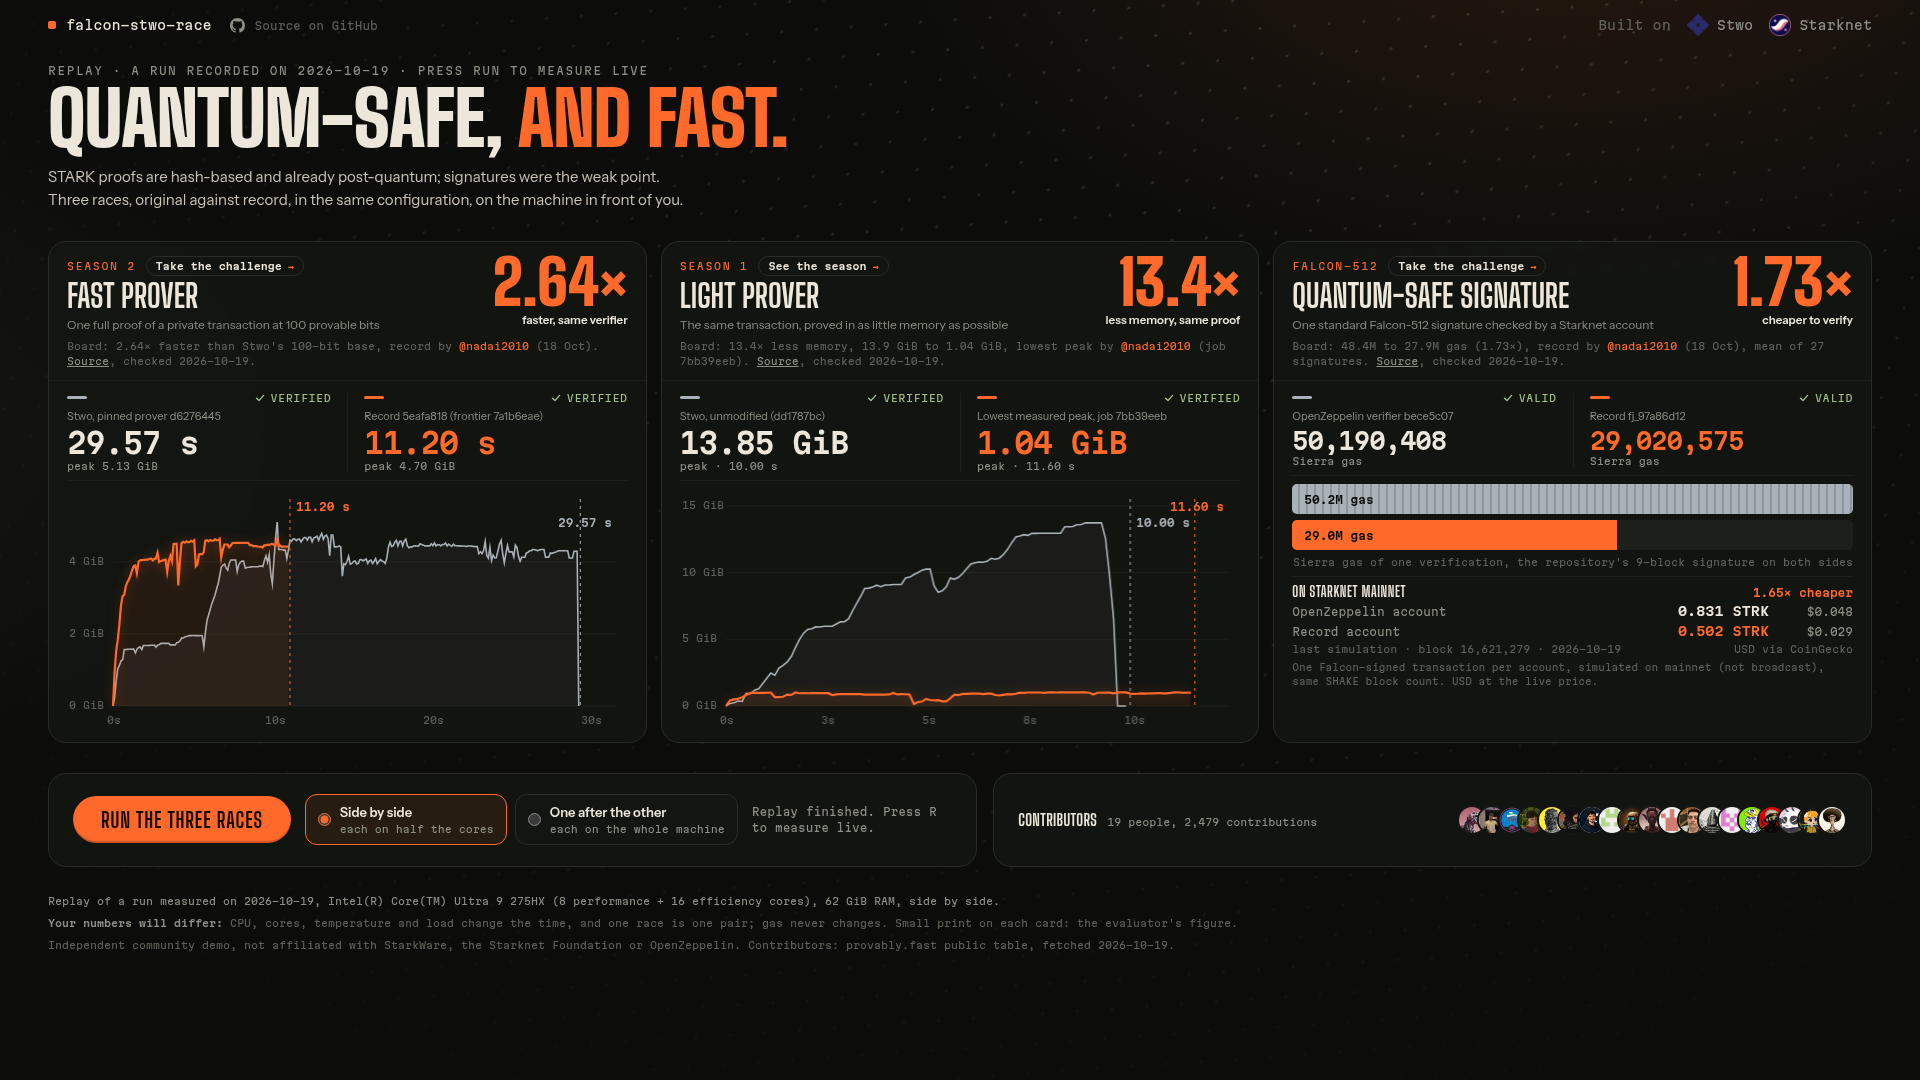
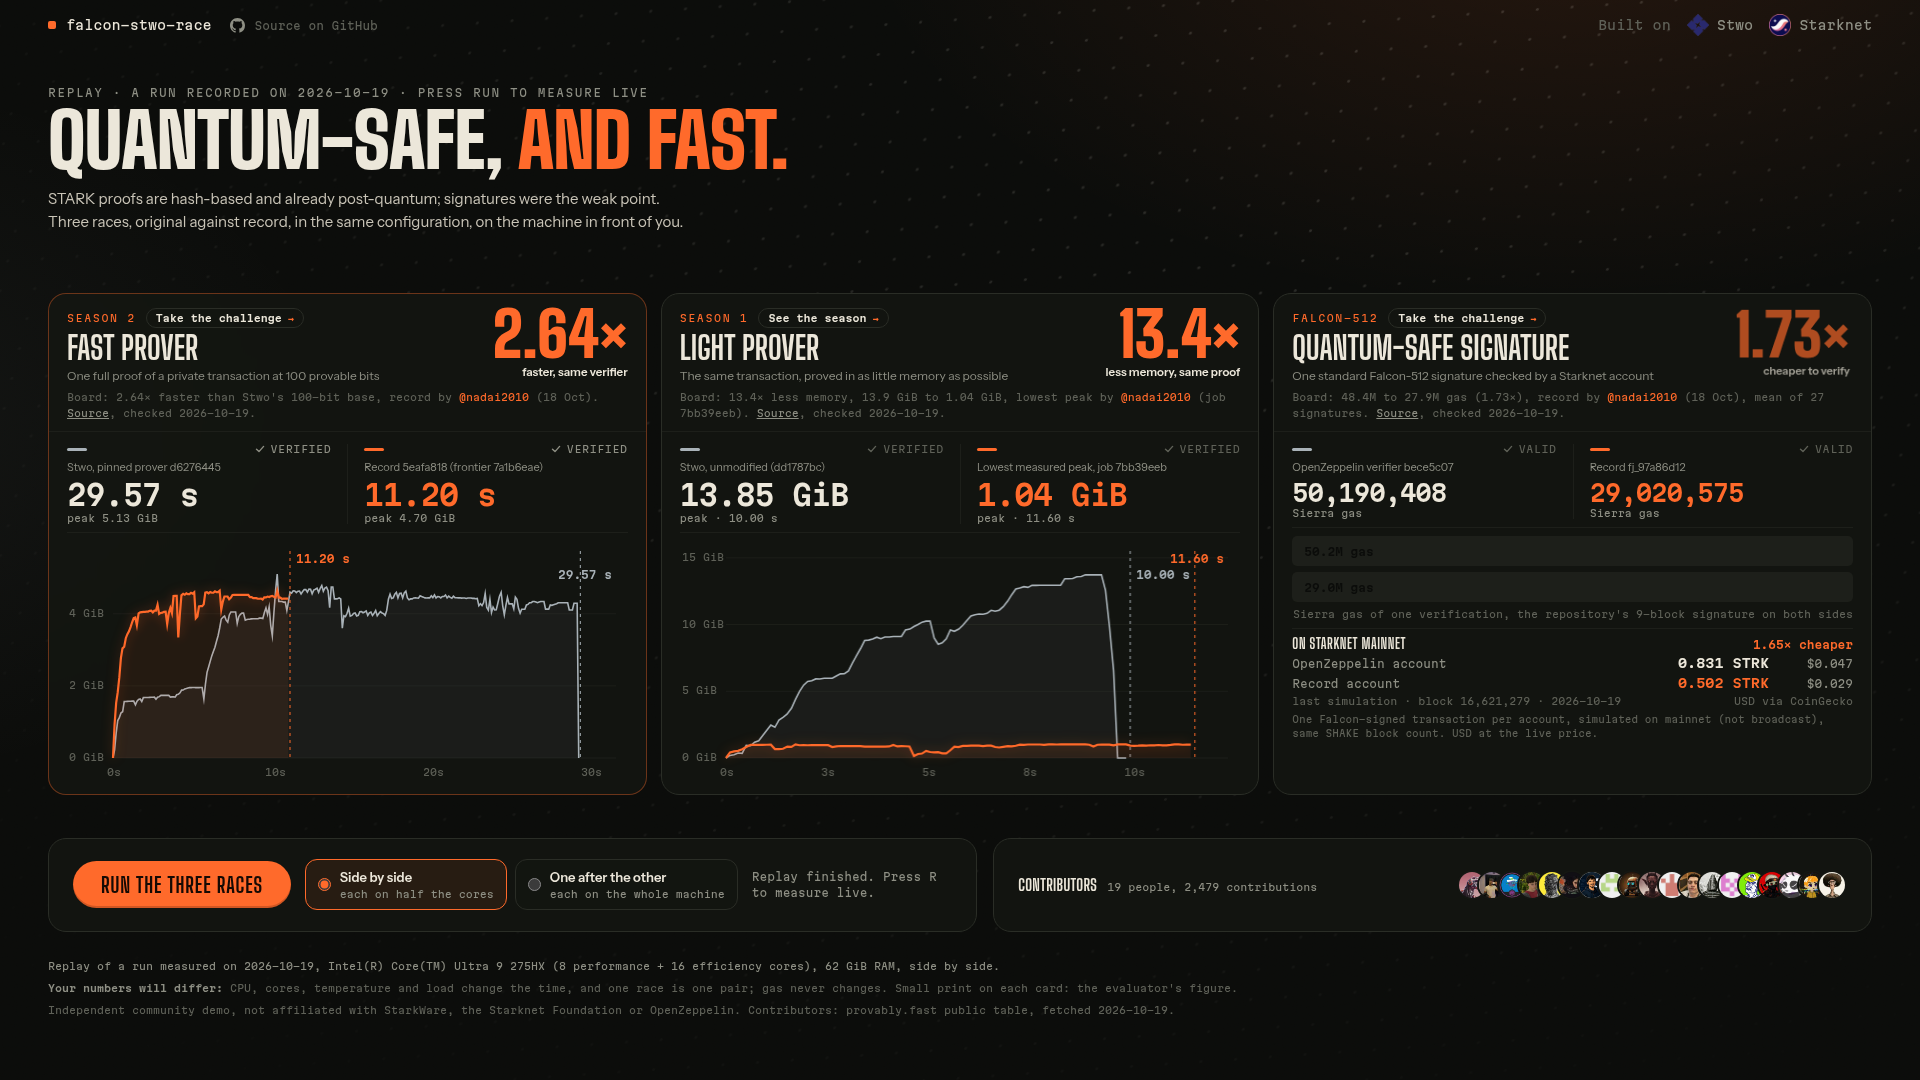
Viewport-relative spacing and a gas counter that always lands on the value
Space above the title, between the title and the cards and above the run
dock now scales with the window height, so the page fills it. The gas counter
sets the exact value once its animation time has passed, whatever the
browser's frame clock does.

diff --git a/web/styles.css b/web/styles.css
@@ -58,7 +58,7 @@ body {
   min-height: 100vh; padding: 0 var(--gutter);
 }
 /* Everything under the header sits in the middle of the remaining height. */
-.stage { align-self: start; padding: 1vh 0 2vh; }
+.stage { align-self: start; padding: clamp(12px, 4vh, 56px) 0 2vh; }
 
 /* Header */
 .top { display: flex; justify-content: space-between; align-items: center; padding: 14px 0 6px; font: 500 13px/1 var(--mono); }
@@ -73,7 +73,7 @@ body {
 .built img { width: 22px; height: 22px; border-radius: 6px; }
 
 /* Title row */
-.hero { padding: 10px 0 30px; }
+.hero { padding: 0 0 clamp(28px, 5.5vh, 72px); }
 .eyebrow { font: 400 11px/1.4 var(--mono); text-transform: uppercase; letter-spacing: 0.14em; color: var(--muted); margin: 0 0 6px; }
 h1 { font: 900 clamp(40px, 4.4vw, 76px)/0.9 var(--display); text-transform: uppercase; letter-spacing: -0.01em; margin: 0; }
 h1 em { font-style: normal; color: var(--rec); }
@@ -180,7 +180,7 @@ h1 em { font-style: normal; color: var(--rec); }
 
 /* Dock: run controls and contributors, under the cards */
 /* Dock under the cards: run controls, then the contributors on their own row. */
-.dock { display: grid; grid-template-columns: auto minmax(0, 1fr); gap: 16px; margin-top: 30px; }
+.dock { display: grid; grid-template-columns: auto minmax(0, 1fr); gap: 16px; margin-top: clamp(22px, 4vh, 48px); }
 .dock-card { padding: 20px 24px; border: 1px solid var(--line); border-radius: var(--r); background: var(--panel); backdrop-filter: blur(6px); }
 .dock-run { display: flex; align-items: center; gap: 14px; flex-wrap: wrap; }
 .go {
@@ -247,7 +247,7 @@ kbd { font: 600 10px var(--mono); padding: 1px 5px; border: 1px solid var(--line
 }
 @media (max-height: 960px) and (min-width: 1100px) {
   .top { padding: 10px 0 4px; }
-  .hero { padding: 4px 0 20px; }
+  .hero { padding: 0 0 clamp(20px, 4vh, 40px); }
   h1 { font-size: clamp(36px, 3.8vw, 60px); }
   .lede { font-size: 13px; }
   .lane-info { padding: 12px 16px 10px; gap: 6px 12px; }
@@ -256,7 +256,7 @@ kbd { font: 600 10px var(--mono); padding: 1px 5px; border: 1px solid var(--line
   .verdict-num { font-size: clamp(38px, 3.4vw, 58px); }
   .lane-race { padding: 10px 14px; gap: 8px; }
   .viz { height: clamp(200px, 23vh, 220px); }
-  .dock { margin-top: 20px; }
+  .dock { margin-top: clamp(16px, 3vh, 32px); }
   .dock-card { padding: 14px 18px; }
   .go { padding: 12px 24px; font-size: 19px; }
   .people img { width: 26px; height: 26px; }

diff --git a/web/app.js b/web/app.js
@@ -323,13 +323,15 @@ async function mainnet(ev) {
 }
 
 function countUp(el, target) {
+  // Animated count, then the exact value set once more whatever the frame clock did.
   const t0 = performance.now(), dur = 1200;
-  const step = (now) => {
-    const k = Math.max(0, Math.min(1, (now - t0) / dur));
+  const step = () => {
+    const k = Math.max(0, Math.min(1, (performance.now() - t0) / dur));
     el.textContent = fmt.gas(Math.round(target * (1 - (1 - k) ** 3)));
     if (k < 1) requestAnimationFrame(step);
   };
   requestAnimationFrame(step);
+  setTimeout(() => { el.textContent = fmt.gas(target); }, dur + 100);
 }
 
 const pending = new Set();
